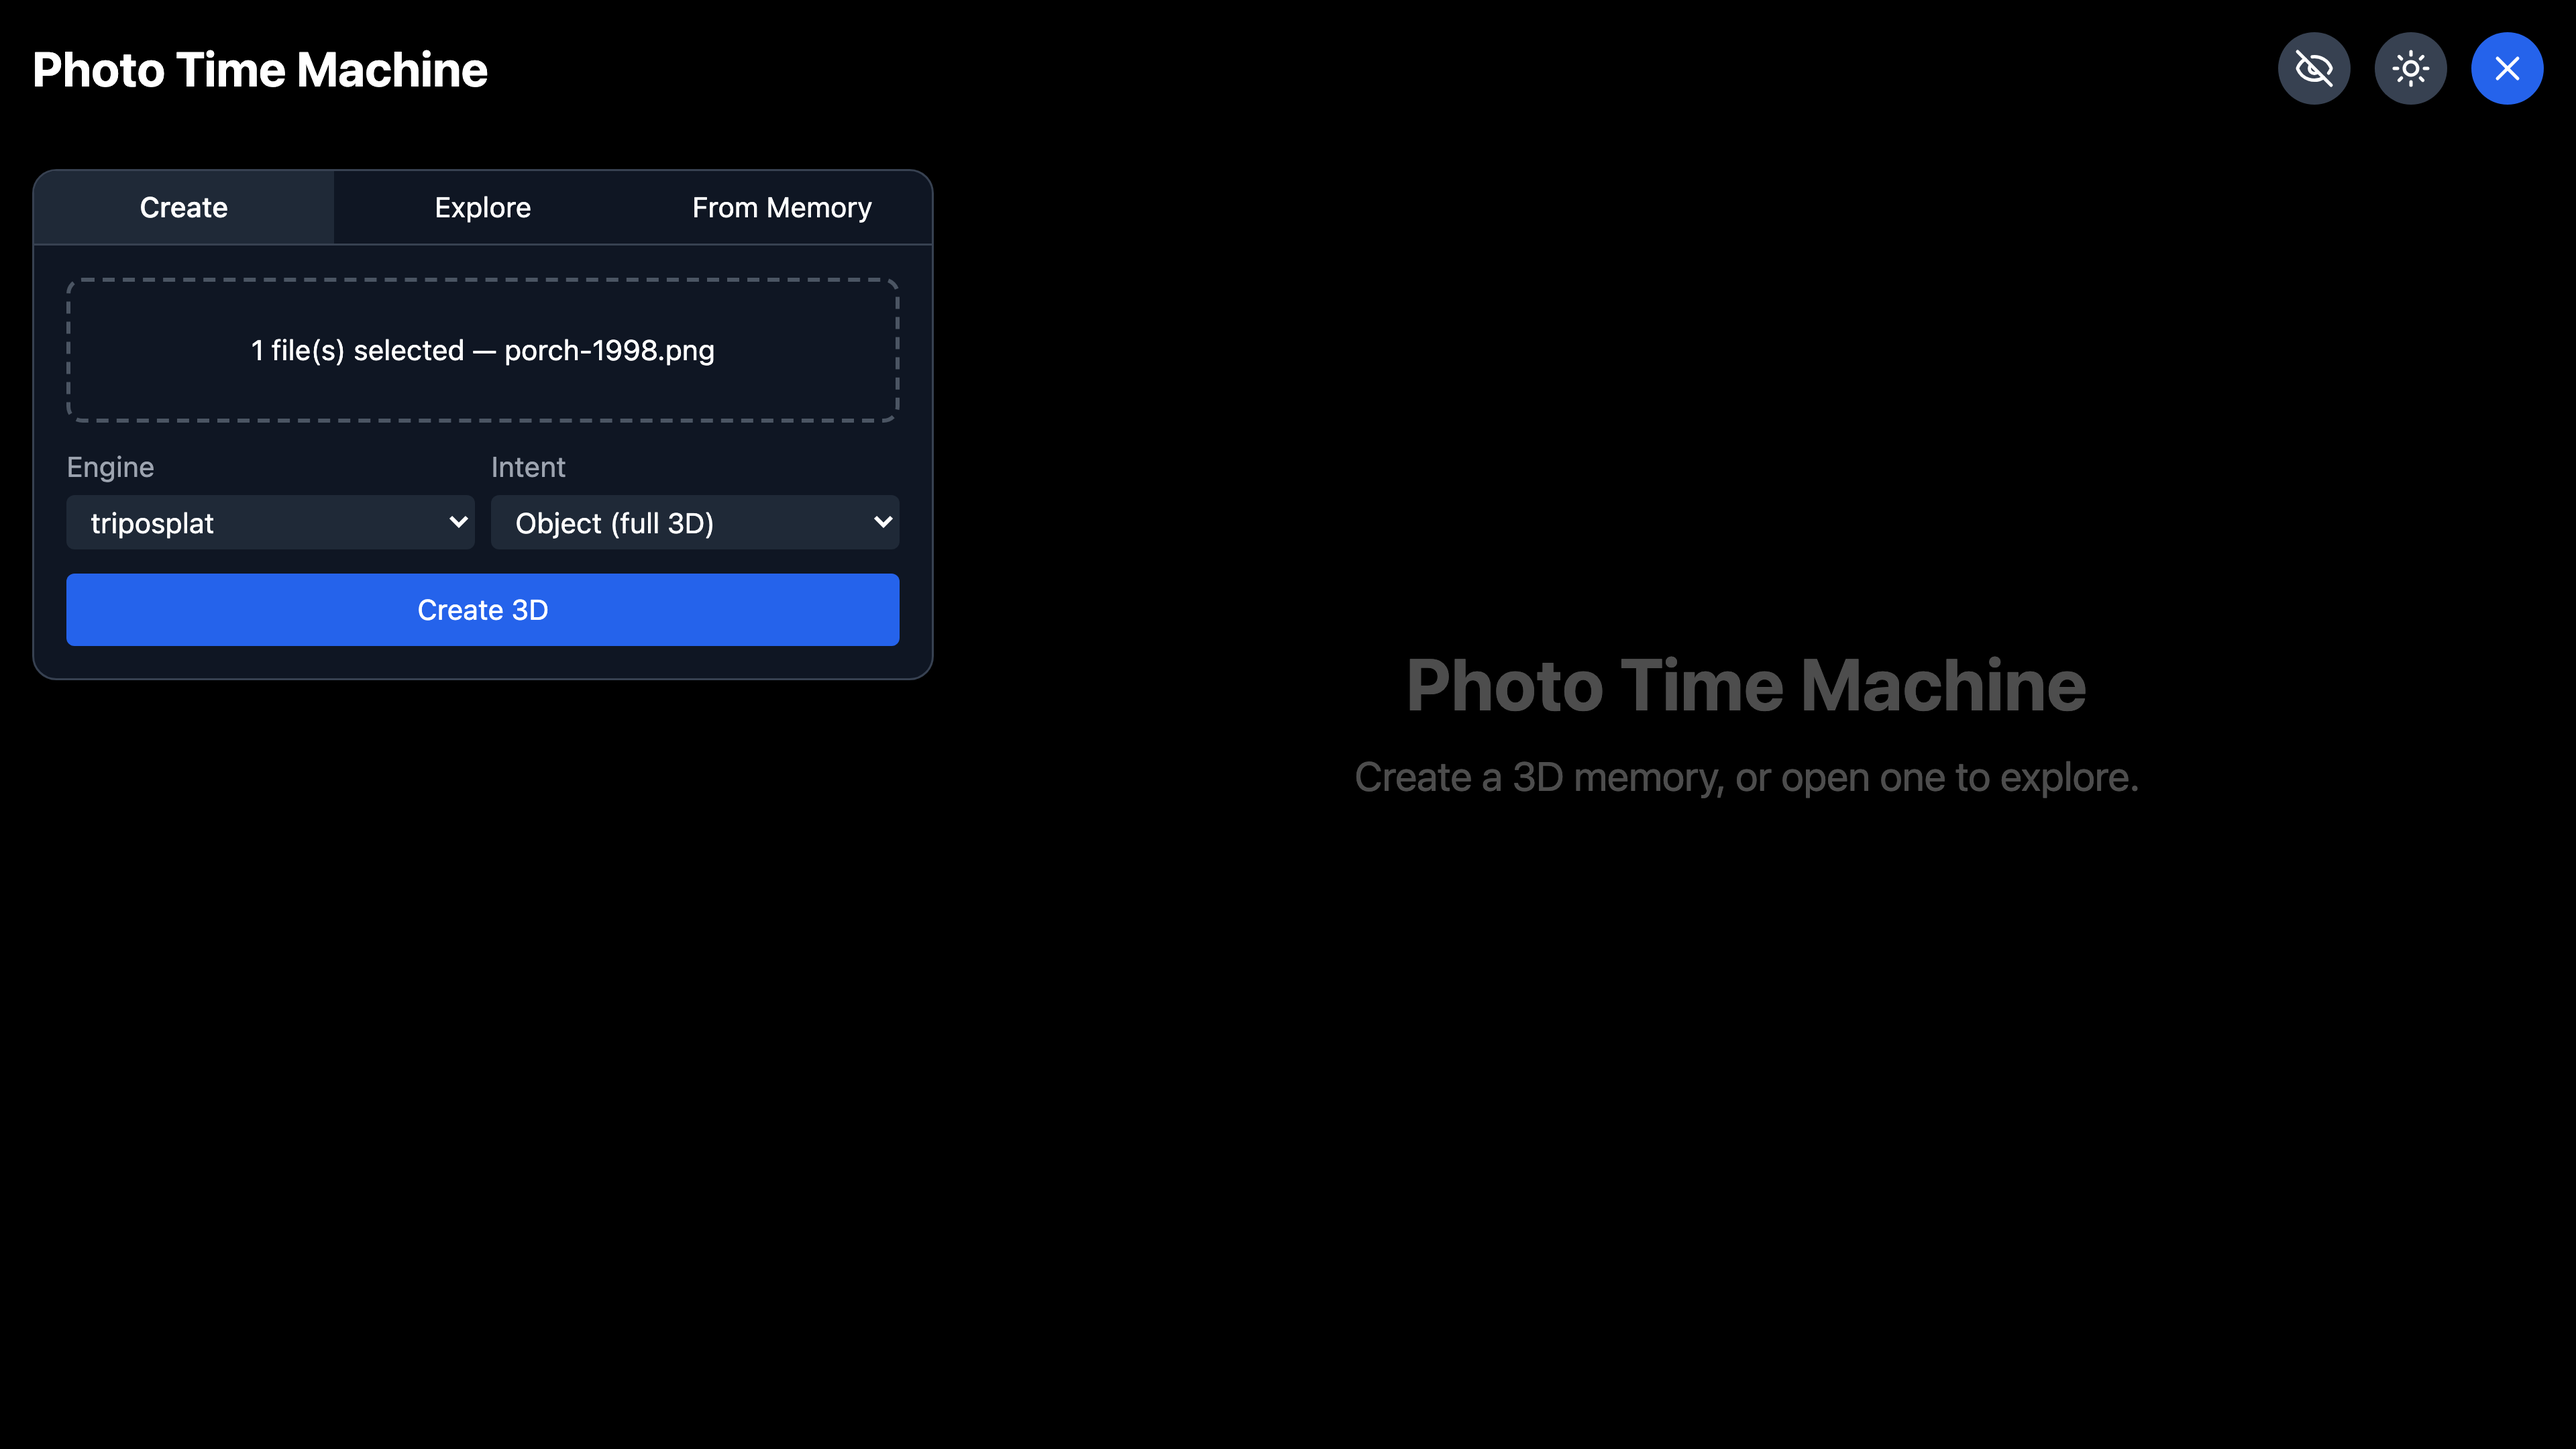
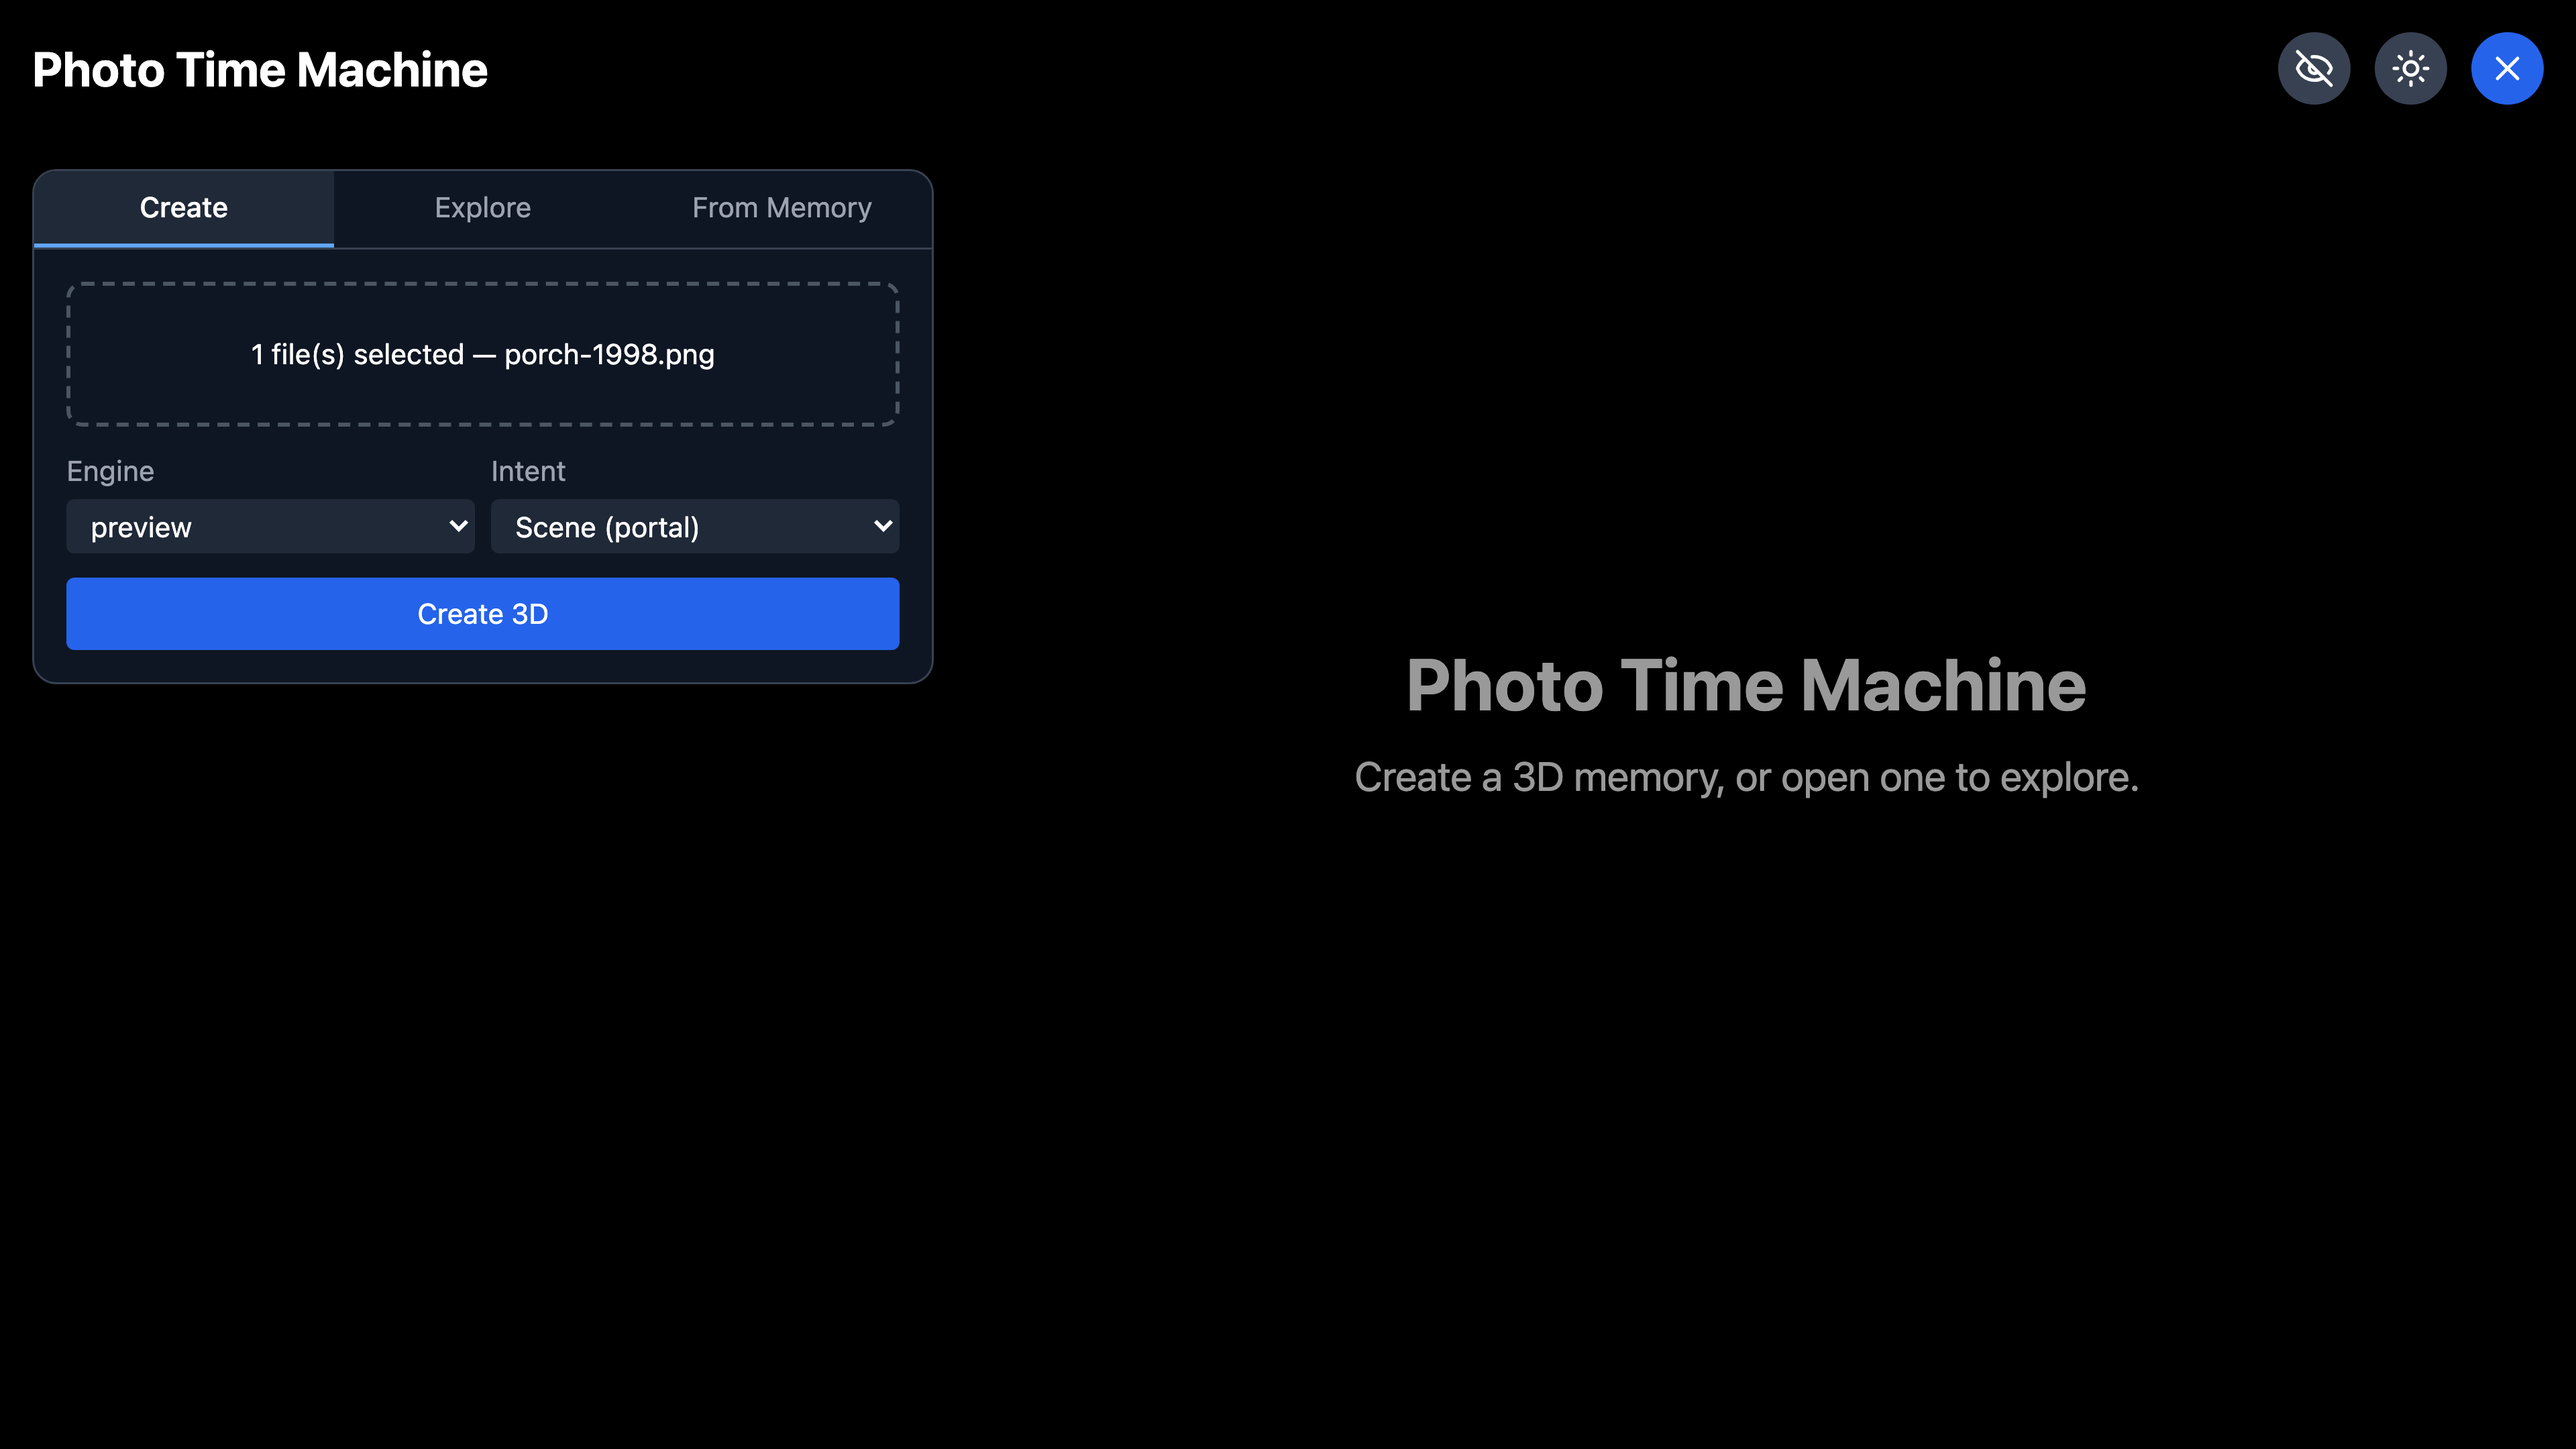
Re-shoot all 18 shots after #32, and unbreak the client build (#33)
* fix(viewer): restore cvToThree, which #32 deleted while still using it

`main` does not compile. #32 replaced

    const cvToThree = makeAxisFlipCvToGl();
    mesh.applyMatrix4(cvToThree);

with an inline `mesh.applyMatrix4(makeAxisFlipCvToGl())` inside the new
`if (cameraMetadata)` guard, and deleted the const — but the camera-metadata
branch forty lines below still reads it twice, to conjugate the OpenCV
extrinsic into Three's axes:

    const view = new THREE.Matrix4()
       .multiplyMatrices(cvToThree, extrinsicCvMat)
       .multiply(cvToThree);

so `react-scripts build` fails with TS2304 and the client cannot be built at
all:

    TS2304: Cannot find name 'cvToThree'.  web-server/client/src/components/SplatViewer.tsx:277

This restores the binding inside that branch, which is exactly where it
belongs: `cameraMetadata` is the same discriminator that decides whether the
mesh is flipped, so the camera and the mesh get the same flip or neither does.
Behaviour is identical to pre-#32 for assets carrying intrinsics, and unchanged
for `preview` assets, which take the `else` branch and are never flipped.

Nothing caught this because the runtime path that uses `cvToThree` needs a PLY
with an `intrinsic` element — ml-sharp output, which no test fixture and no
laptop stage produces. The type checker caught it the moment anyone tried to
build the client, which is what re-shooting the product video required.
[…]

diff --git a/web-server/client/src/components/SplatViewer.tsx b/web-server/client/src/components/SplatViewer.tsx
@@ -273,6 +273,12 @@ const SplatViewer: React.FC<SplatViewerProps> = ({ fileUrl, file, className, hea
              );
 
              // view = cvToThree * extrinsicCv * cvToThree
+             //
+             // This is the same flip the mesh got above, and it has to be: the
+             // extrinsic is in OpenCV axes, so it is conjugated into Three's.
+             // It is scoped to this branch because that is exactly where the
+             // mesh flip applies too — `cameraMetadata` is the discriminator.
+             const cvToThree = makeAxisFlipCvToGl();
              const view = new THREE.Matrix4()
                 .multiplyMatrices(cvToThree, extrinsicCvMat)
                 .multiply(cvToThree);

diff --git a/video/README.md b/video/README.md
@@ -125,10 +125,10 @@ filled, auto → chosen, panel → hidden) without cutting away.
 | `gallery-assets`, `viewer-shared`, `viewer-orbit` | captured — need the **seeded asset** above |
 
 **All nine are captured at both viewports — `ci-video status` reports "missing none".** The whole
-set was re-shot in one pass on 2026-08-06 with `video/make.sh`, so there are no "capture pending"
+set was re-shot in one pass on 2026-08-07 with `video/make.sh`, so there are no "capture pending"
 slates left and no mixed-vintage frames.
 
-Neither re-shoot was optional, and both were whole-set:
+No re-shoot was optional, and all three were whole-set:
 
 - **2026-08-05.** Seven committed shots predated three fixes: the top bar read `CI Photo Time
   Machine` (the repo name, on camera in every frame — `MESSAGING.md` "Naming");
@@ -142,6 +142,15 @@ Neither re-shoot was optional, and both were whole-set:
   [#23](https://github.com/companionintelligence/CI-Photo-Time-Machine/pull/23) (the viewer's
   default camera moved, which took `viewer-orbit` and `viewer-shared` with it — the two shots #22
   had exempted).
+- **2026-08-07.** All eighteen were invalidated by
+  [#32](https://github.com/companionintelligence/CI-Photo-Time-Machine/pull/32), which un-inverted
+  the splat and changed five UI files besides. The headline was `viewer-orbit`: the porch deck ran
+  along the TOP edge and the sun hung below the railing, so `explore-gallery` cross-dissolved from
+  the **upright** gallery thumbnail straight into the **inverted** viewer — the same memory, both
+  ways up, inside one scene. The other seventeen moved too, for the rest of #32: the empty-state
+  watermark went `opacity-30 → 60`, the selected tab gained an accent underline, disabled
+  `Create 3D` got explicit colours, Gallery gained a loading state, the `Loaded N splats` debug
+  readout stopped painting, and the mobile header gained `truncate`.
 
 Capturing only the shots you think moved ships a cut whose product name, or panel layout, or
 camera changes between beats. **Whenever the committed set is marked stale, re-shoot all of it** —
@@ -158,9 +167,26 @@ A shared shot must still move the story *forward*. `share-link` used to run
 alternating for 18s across three consecutive scenes. It is now a single `viewer-shared` beat —
 the only frame that actually carries the share URL.
 
+**The engine the picker shows must be the engine the rest of the film runs.**
+`create-engine-picked` drives the two selects off auto, and it used to pick `triposplat` and
+`Object (full 3D)` — while the very next scene prints `Status: running — reconstructing with
+preview`, the gallery tile reads `Splat · Preview`, and the orbited splat is a `preview` render.
+The film chose one engine on camera and ran another. It now picks `preview` and `Scene (portal)`,
+which is what this stage can honestly produce: `preview` is the only engine needing neither CUDA
+nor downloaded weights, and its own capability blurb calls it a *flat textured Gaussian plane* —
+a portal, not a full 3D object. The beat still shows a real two-field state change, so the
+cross-dissolve keeps its causality. If you ever stage a GPU box, change the pick and the seeded
+asset's `engine=` together, in one commit.
+
 The asset shots need the seeded asset above, and the viewer shots additionally render a
 Three.js + Spark **WebGL2 canvas** that is outside the kit's byte-stability guarantee. Every
 determinism hazard is catalogued at the top of [`capture.config.mjs`](capture.config.mjs).
+
+In practice that canvas **is** reproducible on one machine: two full passes on 2026-08-07, booted
+independently and landing on different API ports, produced all eighteen shots byte-for-byte
+identical except the one shot whose storyboard entry had deliberately changed. Re-shooting twice
+and diffing the hashes is the cheapest available proof that a change is scoped to what it claims —
+`check` cannot tell you that, because it counts files and looks for slates.
 
 Note that **every screen except `/view/:assetId` is interaction state on `/`** — routing is a
 hand-rolled regex (`parseViewId()` in `web-server/client/src/App.tsx`), not a router. Drive new
